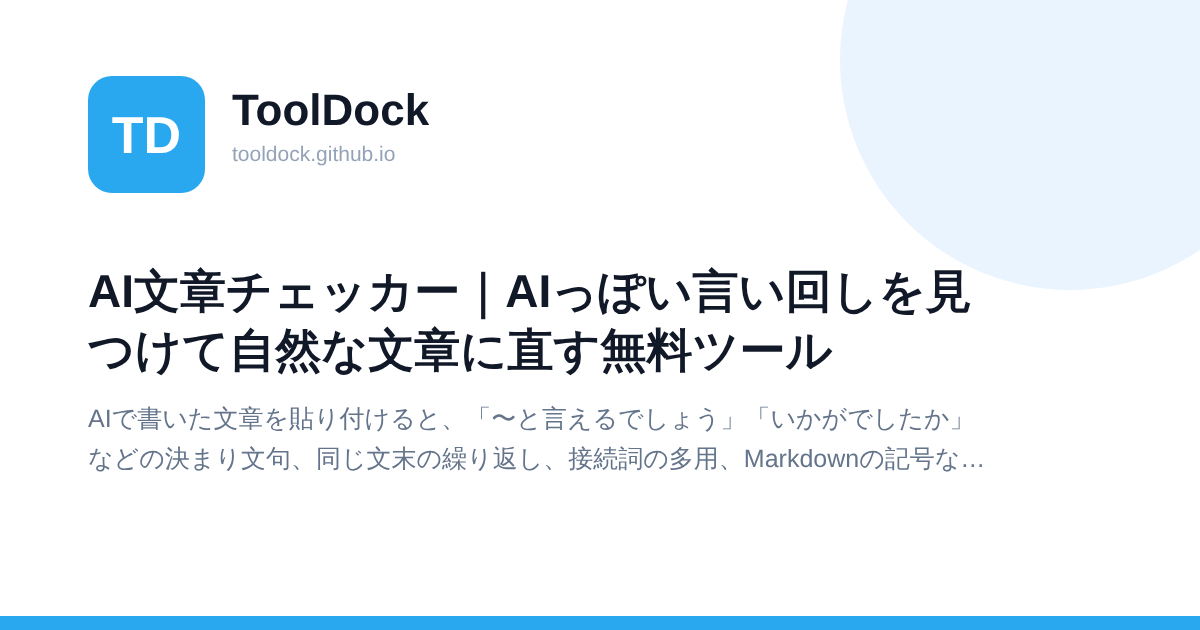
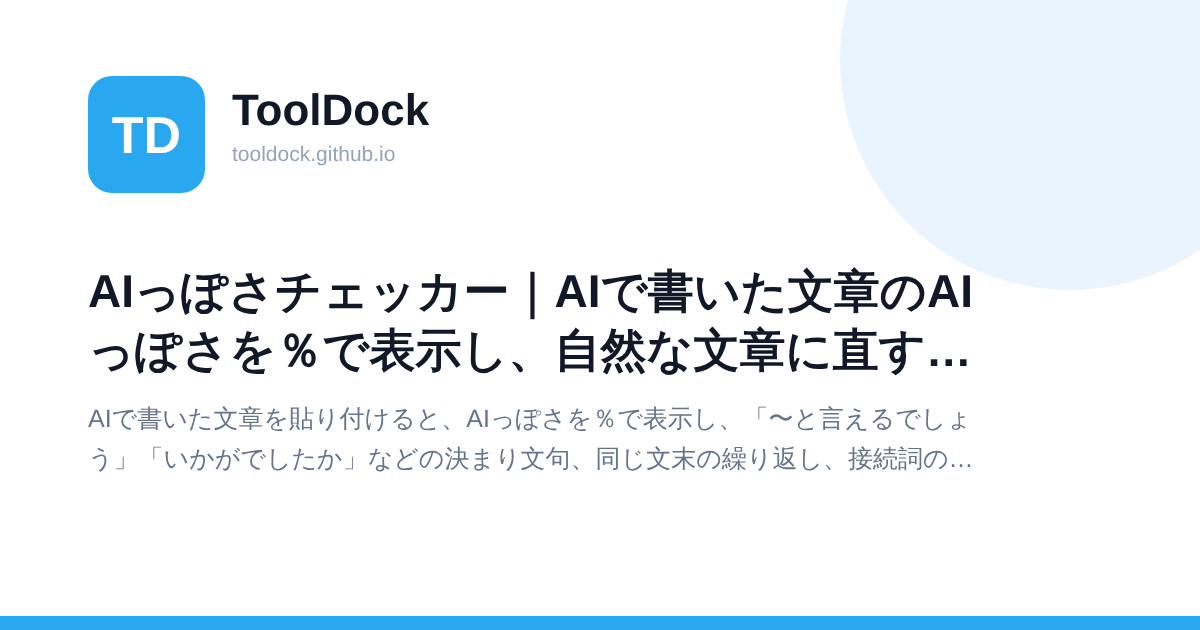
AI文章チェッカーを「AIっぽさチェッカー」に改名
- 見出し・<title>・説明文・トップと一覧の札・OGP画像の名前を「AIっぽさチェッカー」に
- 説明文に「AIっぽさを％で表示」を足す。検索語の「AIチェッカー」「AI文章チェッカー」はキーワードに残す
- URL（/ai-checker/）は変えない

Claude-Session: https://claude.ai/code/session_01SKh1jhAp32CEmbZCaaEmgk

Changed region(s): [[0.0617, 0.4222, 0.8325, 0.6032], [0.0617, 0.6333, 0.8017, 0.754]]

diff --git a/category/index.html b/category/index.html
@@ -119,7 +119,7 @@
   <a class="tool-card c-game" data-cat="game" href="/crystal/"><h2>パワプロ2026-2027 マイライフ イベントクリスタル（小）（大）入手方法一覧</h2><p>特殊能力ファイルに使うイベントクリスタルの入手方法と、怪しい露店の交換レート一覧。</p></a>
   <a class="tool-card c-game" data-cat="game" href="/kintoku/"><h2>パワプロ2026-2027 マイライフ 能力研究所の金特ミッション一覧</h2><p>マイライフの能力研究所で受けられる金特ミッションの内容と取得条件の一覧。2024-2025 とも共通です。</p></a>
   <a class="tool-card c-work" data-cat="work" href="/counter/"><h2>文字数カウント</h2><p>原稿用紙換算・全角半角の内訳・X(Twitter)の文字数まで数えられる文字数カウンター。</p></a>
-  <a class="tool-card c-work" data-cat="work" href="/ai-checker/"><h2>AI文章チェッカー</h2><p>AIで書いた文章のAIっぽい言い回し・文末の繰り返し・接続詞の多用などに印を付け、直し方を示します。</p></a>
+  <a class="tool-card c-work" data-cat="work" href="/ai-checker/"><h2>AIっぽさチェッカー</h2><p>AIで書いた文章のAIっぽさを％で表示。AIっぽい言い回し・文末の繰り返し・読点の多さなどに印を付け、直し方を示します。</p></a>
   <a class="tool-card c-game" data-cat="game" href="/satei/"><h2>パワプロ2026-2027 ⭐(星)計算ツール</h2><p>能力値と所持する特殊能力を入力すると、査定である☆(星)を計算します。</p></a>
   <a class="tool-card c-game" data-cat="game" href="/nouryoku/"><h2>パワプロ風 能力画像ジェネレーター（野手）</h2><p>パワプロ風の能力画像を作れる能力メーカー。野手の能力値と特殊能力を入れるだけで、選手能力カード風の画像を作成できます。</p></a>
   <a class="tool-card c-game" data-cat="game" href="/nouryoku-pitcher/"><h2>パワプロ風 能力画像ジェネレーター（投手）</h2><p>パワプロ風の能力画像を作れる能力メーカー。投手の能力値・変化球と特殊能力を入れるだけで、選手能力カード風の画像を作成できます。</p></a>

diff --git a/ai-checker/index.html b/ai-checker/index.html
@@ -4,8 +4,8 @@
 <meta charset="UTF-8">
 <meta name="viewport" content="width=device-width, initial-scale=1.0">
 
-<title>AI文章チェッカー｜AIっぽい言い回しを見つけて自然な文章に直す無料ツール</title>
-<meta name="description" content="AIで書いた文章を貼り付けると、「〜と言えるでしょう」「いかがでしたか」などの決まり文句、同じ文末の繰り返し、接続詞の多用、Markdownの記号など、AIっぽく見える箇所に印を付けて直し方を示します。文章は外部に送信されません。">
+<title>AIっぽさチェッカー｜AIで書いた文章のAIっぽさを％で表示し、自然な文章に直す無料ツール</title>
+<meta name="description" content="AIで書いた文章を貼り付けると、AIっぽさを％で表示し、「〜と言えるでしょう」「いかがでしたか」などの決まり文句、同じ文末の繰り返し、接続詞の多用、Markdownの記号など、AIっぽく見える箇所に印を付けて直し方を示します。文章は外部に送信されません。">
 <link rel="canonical" href="https://tooldock.github.io/ai-checker/">
 
 <script> const CURRENT_TOOL = "ai-checker"; </script>
@@ -16,7 +16,7 @@
 <!-- Google AdSense -->
 <script async src="https://pagead2.googlesyndication.com/pagead/js/adsbygoogle.js?client=ca-pub-8349615939902537" crossorigin="anonymous"></script>
 
-<meta name="keywords" content="AIチェッカー,AI文章チェッカー,AIっぽい,AI文章,リライト,ChatGPT,文章チェック,言い換え">
+<meta name="keywords" content="AIっぽさチェッカー,AIチェッカー,AI文章チェッカー,AIっぽさ,AIっぽい,AI文章,リライト,ChatGPT,文章チェック,言い換え">
 
 <style>
     body {
@@ -383,7 +383,7 @@
 <div class="container">
 
     <div class="td-banner">
-      <h1>AI文章チェッカー</h1>
+      <h1>AIっぽさチェッカー</h1>
 
       <p class="description">
           AIで書いた文章を貼り付けると、AIっぽく見える言い回しに印を付け、直し方を示します。

diff --git a/index.html b/index.html
@@ -258,7 +258,7 @@ ToolDockは、ブラウザだけで使える無料のWebツールを集めたサ
     <li><a class="tool-card c-work" href="/seiki/"><span class="tc-title">正規表現テスター</span><span class="tc-desc">正規表現（Regex）のマッチ箇所をリアルタイムでハイライト表示して確認できるツール。</span></a></li>
     <li><a class="tool-card c-work" href="/qr/"><span class="tc-title">QRコード作成ツール</span><span class="tc-desc">URL・Wi-Fi・メール・電話・連絡先などのQRコードを作成。PNGとSVGで保存できます。</span></a></li>
     <li><a class="tool-card c-work" href="/counter/"><span class="tc-title">文字数カウント</span><span class="tc-desc">原稿用紙換算・全角半角の内訳・X(Twitter)の文字数まで数えられる文字数カウンター。</span></a></li>
-    <li><a class="tool-card c-work" href="/ai-checker/"><span class="tc-title">AI文章チェッカー</span><span class="tc-desc">AIで書いた文章のAIっぽい言い回し・文末の繰り返し・接続詞の多用などに印を付け、直し方を示します。</span></a></li>
+    <li><a class="tool-card c-work" href="/ai-checker/"><span class="tc-title">AIっぽさチェッカー</span><span class="tc-desc">AIで書いた文章のAIっぽさを％で表示。AIっぽい言い回し・文末の繰り返し・読点の多さなどに印を付け、直し方を示します。</span></a></li>
   </ul>
   </section>
   <section class="cat c-math" id="cat-math">

diff --git a/js/tool-data.js b/js/tool-data.js
@@ -390,10 +390,10 @@ window.TOOLS = [
 
   {
     id: "ai-checker",
-    title: "AI文章チェッカー",
-    desc: "AIで書いた文章のAIっぽい言い回し・文末の繰り返し・接続詞の多用などに印を付け、直し方を示します。",
-    seoTitle: "AI文章チェッカー｜AIっぽい言い回しを見つけて自然な文章に直す無料ツール",
-    seoDesc: "AIで書いた文章を貼り付けると、「〜と言えるでしょう」「いかがでしたか」などの決まり文句、同じ文末の繰り返し、接続詞の多用、Markdownの記号など、AIっぽく見える箇所に印を付けて直し方を示します。文章は外部に送信されません。",
+    title: "AIっぽさチェッカー",
+    desc: "AIで書いた文章のAIっぽさを％で表示。AIっぽい言い回し・文末の繰り返し・読点の多さなどに印を付け、直し方を示します。",
+    seoTitle: "AIっぽさチェッカー｜AIで書いた文章のAIっぽさを％で表示し、自然な文章に直す無料ツール",
+    seoDesc: "AIで書いた文章を貼り付けると、AIっぽさを％で表示し、「〜と言えるでしょう」「いかがでしたか」などの決まり文句、同じ文末の繰り返し、接続詞の多用、Markdownの記号など、AIっぽく見える箇所に印を付けて直し方を示します。文章は外部に送信されません。",
     category: "work",
     url: "/ai-checker/"
   },
